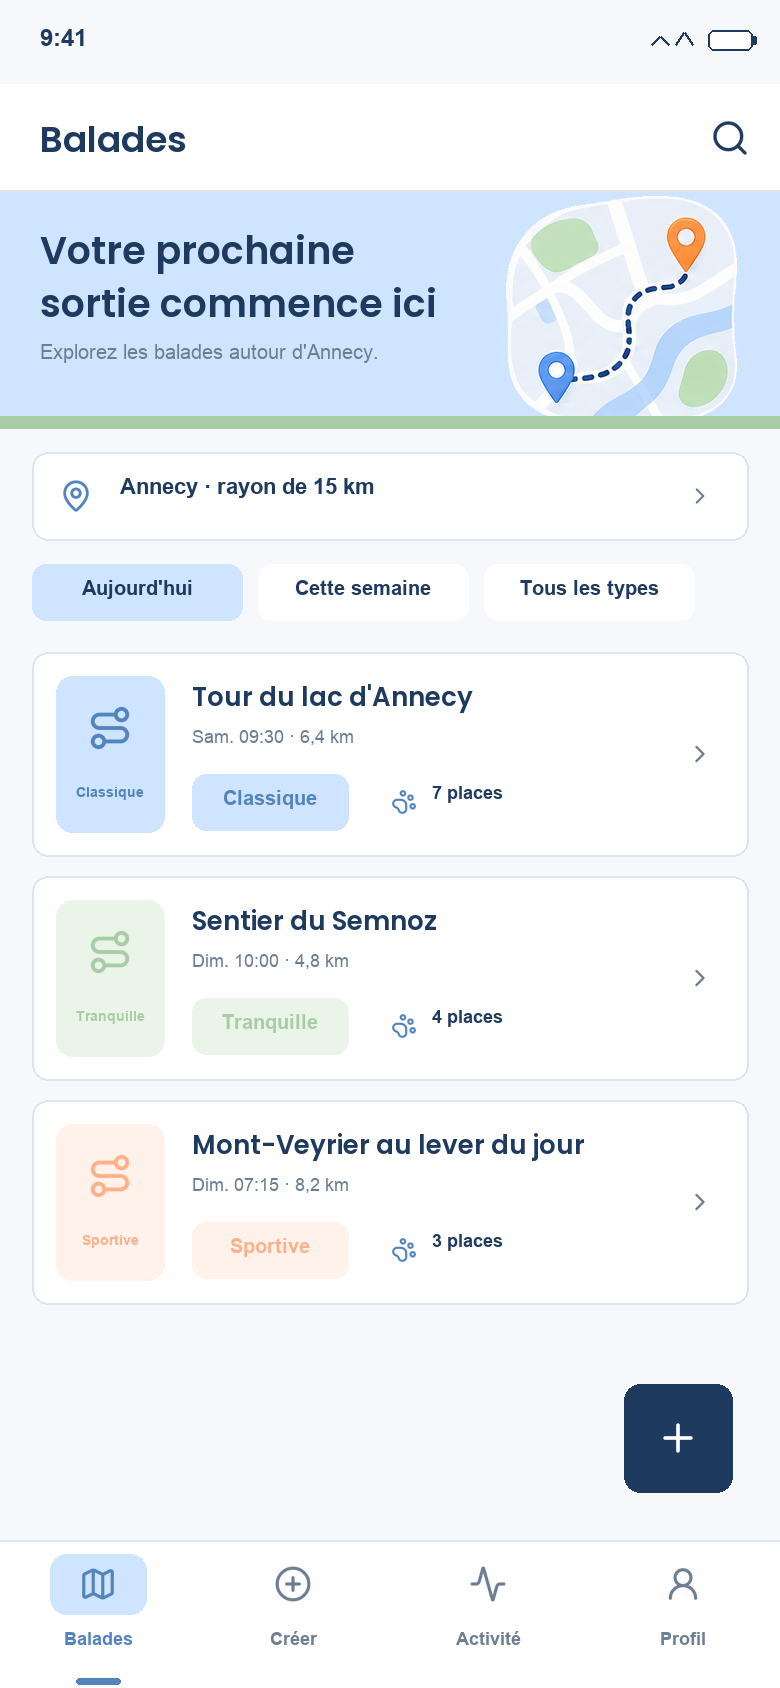
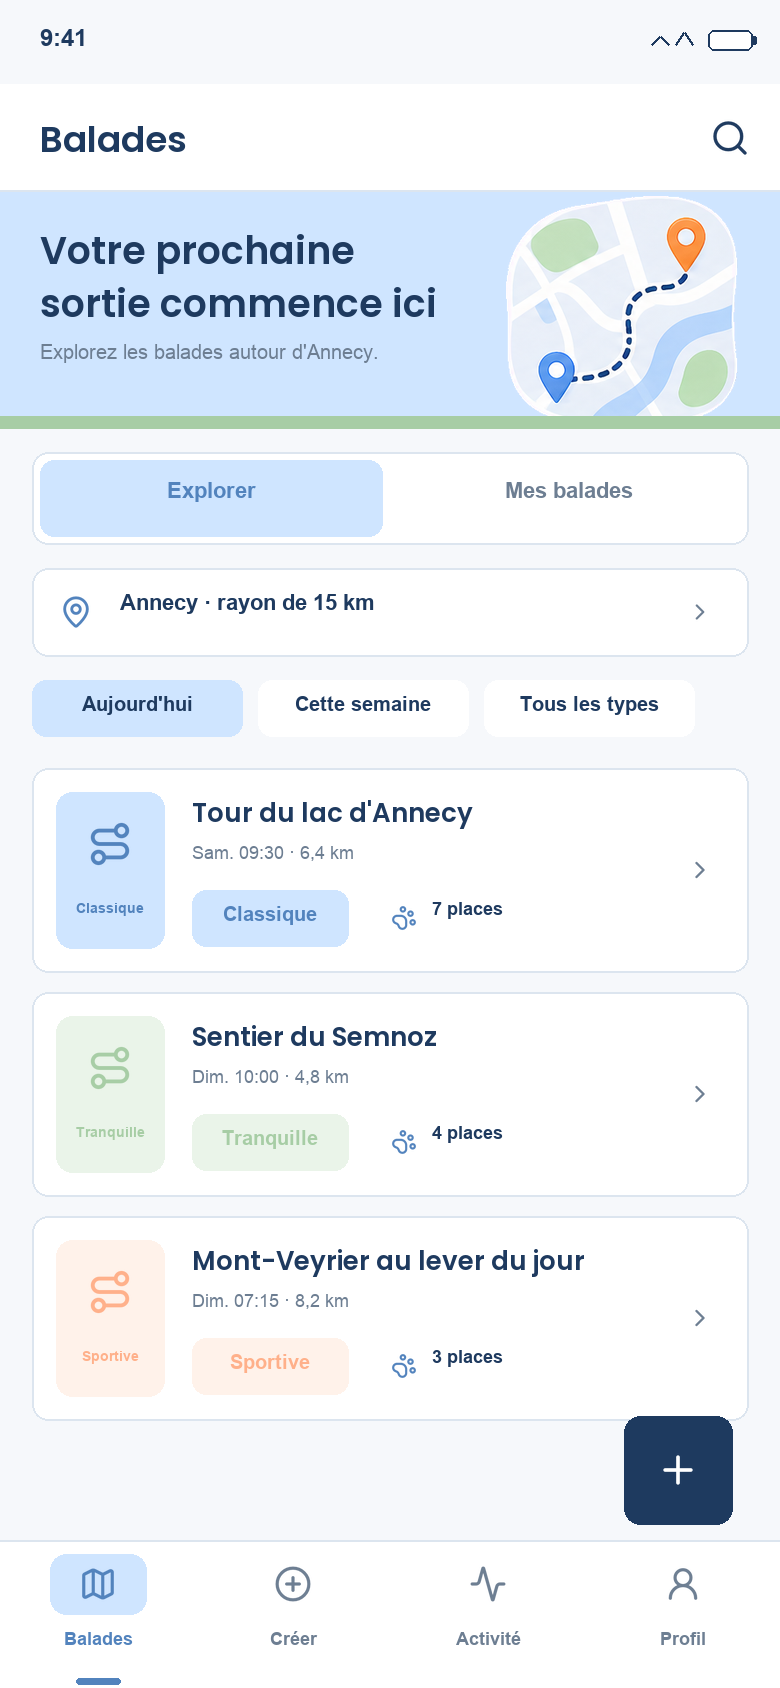
feat(walk): add organizer walk management

diff --git a/figma-plugin/code.js b/figma-plugin/code.js
@@ -99,9 +99,10 @@ add("SCR-ANIMAL-008-fiche", "Modifier la photo", [222, 174, 54, 54], "SCR-ANIMAL
 add("SCR-ANIMAL-008-fiche", "Voir les sorties", [24, 704, 342, 42], "SCR-ACTIVITY-002-historique");
 
 // Balades
-add("SCR-WALK-001-liste", "Voir la carte", [16, 226, 358, 44], "SCR-WALK-002-carte");
-add("SCR-WALK-001-liste", "Tour du lac", [16, 326, 358, 102], "SCR-WALK-003-detail");
-add("SCR-WALK-001-liste", "Créer une balade", [306, 680, 68, 74], "SCR-WALK-004-creation");
+add("SCR-WALK-001-liste", "Mes balades", [195, 226, 179, 46], "SCR-WALK-013-mes-balades");
+add("SCR-WALK-001-liste", "Voir la carte", [16, 284, 358, 44], "SCR-WALK-002-carte");
+add("SCR-WALK-001-liste", "Tour du lac", [16, 384, 358, 102], "SCR-WALK-003-detail");
+add("SCR-WALK-001-liste", "Créer une balade", [304, 700, 70, 70], "SCR-WALK-004-creation");
 addBottomNavigation("SCR-WALK-001-liste");
 add("SCR-WALK-002-carte", "Afficher la liste", [316, 56, 62, 58], "SCR-WALK-001-liste");
 add("SCR-WALK-002-carte", "Voir le détail", [88, 688, 266, 46], "SCR-WALK-003-detail");
@@ -147,8 +148,30 @@ add("SCR-NAV-ROUTE-004-export", "Exporter le GPX", [16, 630, 358, 64], "SCR-NAV-
 add("SCR-NAV-ROUTE-004-export", "Partager le lien", [16, 704, 358, 64], "SCR-NAV-ROUTE-002-apercu");
 
 // Confirmation de création
-add("SCR-WALK-012-creation-confirmee", "Voir les balades", [24, 680, 342, 48], "SCR-WALK-001-liste");
+add("SCR-WALK-012-creation-confirmee", "Voir ma balade", [24, 680, 342, 48], "SCR-WALK-015-detail-organisateur");
 add("SCR-WALK-012-creation-confirmee", "Modifier la balade", [24, 742, 342, 42], "SCR-WALK-004-creation");
+
+// Balades organisées et inscriptions
+add("SCR-WALK-013-mes-balades", "Inscriptions", [195, 110, 179, 46], "SCR-WALK-014-mes-inscriptions");
+add("SCR-WALK-013-mes-balades", "Ouvrir la balade organisée", [16, 278, 358, 142], "SCR-WALK-015-detail-organisateur");
+add("SCR-WALK-013-mes-balades", "Créer une balade", [16, 574, 358, 64], "SCR-WALK-004-creation");
+addBottomNavigation("SCR-WALK-013-mes-balades");
+add("SCR-WALK-014-mes-inscriptions", "Organisées", [16, 110, 179, 46], "SCR-WALK-013-mes-balades");
+add("SCR-WALK-014-mes-inscriptions", "Ouvrir l'inscription", [16, 278, 358, 142], "SCR-WALK-008-detail-inscrit");
+addBottomNavigation("SCR-WALK-014-mes-inscriptions");
+addBack("SCR-WALK-015-detail-organisateur", "SCR-WALK-013-mes-balades");
+add("SCR-WALK-015-detail-organisateur", "Participants", [20, 730, 170, 42], "SCR-WALK-016-participants-organisateur");
+add("SCR-WALK-015-detail-organisateur", "Conversation", [200, 730, 170, 42], "SCR-WALK-017-conversation-organisateur");
+add("SCR-WALK-015-detail-organisateur", "Modifier", [20, 780, 170, 42], "SCR-WALK-004-creation");
+add("SCR-WALK-015-detail-organisateur", "Annuler", [200, 780, 170, 42], "SCR-WALK-018-annulation");
+addBack("SCR-WALK-016-participants-organisateur", "SCR-WALK-015-detail-organisateur");
+add("SCR-WALK-016-participants-organisateur", "Ouvrir la conversation", [20, 700, 350, 46], "SCR-WALK-017-conversation-organisateur");
+addBottomNavigation("SCR-WALK-016-participants-organisateur");
+addBack("SCR-WALK-017-conversation-organisateur", "SCR-WALK-015-detail-organisateur");
+addBottomNavigation("SCR-WALK-017-conversation-organisateur");
+addBack("SCR-WALK-018-annulation", "SCR-WALK-015-detail-organisateur");
+add("SCR-WALK-018-annulation", "Confirmer l'annulation", [24, 680, 342, 48], "SCR-WALK-013-mes-balades");
+add("SCR-WALK-018-annulation", "Conserver la balade", [24, 742, 342, 42], "SCR-WALK-015-detail-organisateur");
 
 // Navigation jusqu'au point de départ
 addBack("SCR-NAV-001-navigation-depart", "SCR-WALK-008-detail-inscrit");
@@ -214,7 +237,9 @@ const flowStarts = [
   ["SCR-ACTIVITY-002-historique", "Activité"],
   ["SCR-USER-002-profil", "Profil et réglages"],
   ["SCR-PERM-001-permissions", "Permissions"],
-  ["SCR-WALK-012-creation-confirmee", "Balade créée"]
+  ["SCR-WALK-012-creation-confirmee", "Balade créée"],
+  ["SCR-WALK-013-mes-balades", "Mes balades"],
+  ["SCR-WALK-015-detail-organisateur", "Gérer ma balade"]
 ];
 
 function nodeAction(destinationId, transitionType = "DISSOLVE") {

diff --git a/index.html b/index.html
@@ -13,9 +13,9 @@
     <link rel="icon" href="favicon/favicon.svg" type="image/svg+xml">
     <link rel="apple-touch-icon" href="favicon/apple-touch-icon.png">
     <link rel="manifest" href="prototype/manifest.webmanifest">
-    <link rel="stylesheet" href="prototype/styles.css?v=20260717.3">
-    <script src="figma-plugin/code.js?v=20260717.3" defer></script>
-    <script src="prototype/app.js?v=20260717.3" defer></script>
+    <link rel="stylesheet" href="prototype/styles.css?v=20260717.4">
+    <script src="figma-plugin/code.js?v=20260717.4" defer></script>
+    <script src="prototype/app.js?v=20260717.4" defer></script>
   </head>
   <body>
     <div class="prototype-shell">

diff --git a/prototype/app.js b/prototype/app.js
@@ -9,7 +9,7 @@
   const BASE_WIDTH = 390;
   const BASE_HEIGHT = 844;
   const SCREEN_PATH = "app-screens/screens/";
-  const ASSET_VERSION = "20260717.3";
+  const ASSET_VERSION = "20260717.4";
   const SCREEN_NAME_OVERRIDES = new Map([
     ["SCR-WALK-005-participation", "WALK 005 · Inscription"],
     ["SCR-WALK-007-coordination", "WALK 007 · Conversation"]

diff --git a/README.md b/README.md
@@ -1,6 +1,6 @@
 # Prototype web Kamitus
 
-Ce dépôt publie le prototype interactif de l'application Kamitus. Il contient 56 écrans mobiles, 170 interactions et 16 parcours fonctionnels.
+Ce dépôt publie le prototype interactif de l'application Kamitus. Il contient 62 écrans mobiles, 203 interactions et 18 parcours fonctionnels.
 
 ## Test local
 
@@ -29,7 +29,9 @@ La création du premier animal dispose d'un sous-parcours dédié : après l'enr
 
 La création d'une balade définit les tailles de chiens acceptées, l'âge maximum et la capacité totale avant de passer à la définition du parcours. Elle ne sélectionne pas l'animal de l'organisateur.
 
-Après validation de l'aperçu, l'action `Créer la balade` publie la sortie et ouvre une confirmation permettant de consulter les balades ou de revenir au formulaire de modification.
+Après validation de l'aperçu, l'action `Créer la balade` publie la sortie et ouvre une confirmation permettant d'accéder directement au détail organisateur ou de revenir au formulaire de modification.
+
+La rubrique `Mes balades` sépare les sorties organisées des inscriptions. Le détail organisateur donne accès à la modification, aux participants, à la conversation et à l'annulation avec confirmation.
 
 Lorsqu'une navigation atteint le point de départ d'un autre parcours, le lecteur met automatiquement à jour le parcours actif, la sélection latérale et l'URL.
 